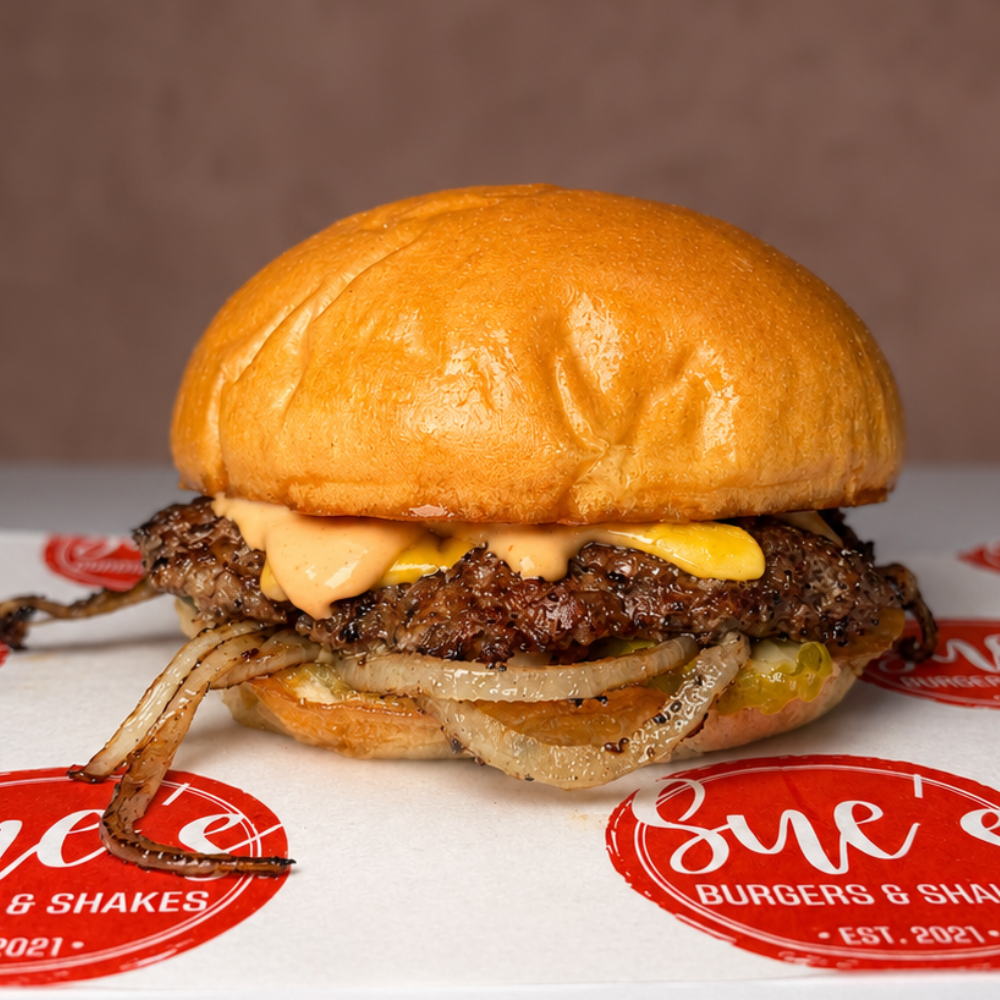
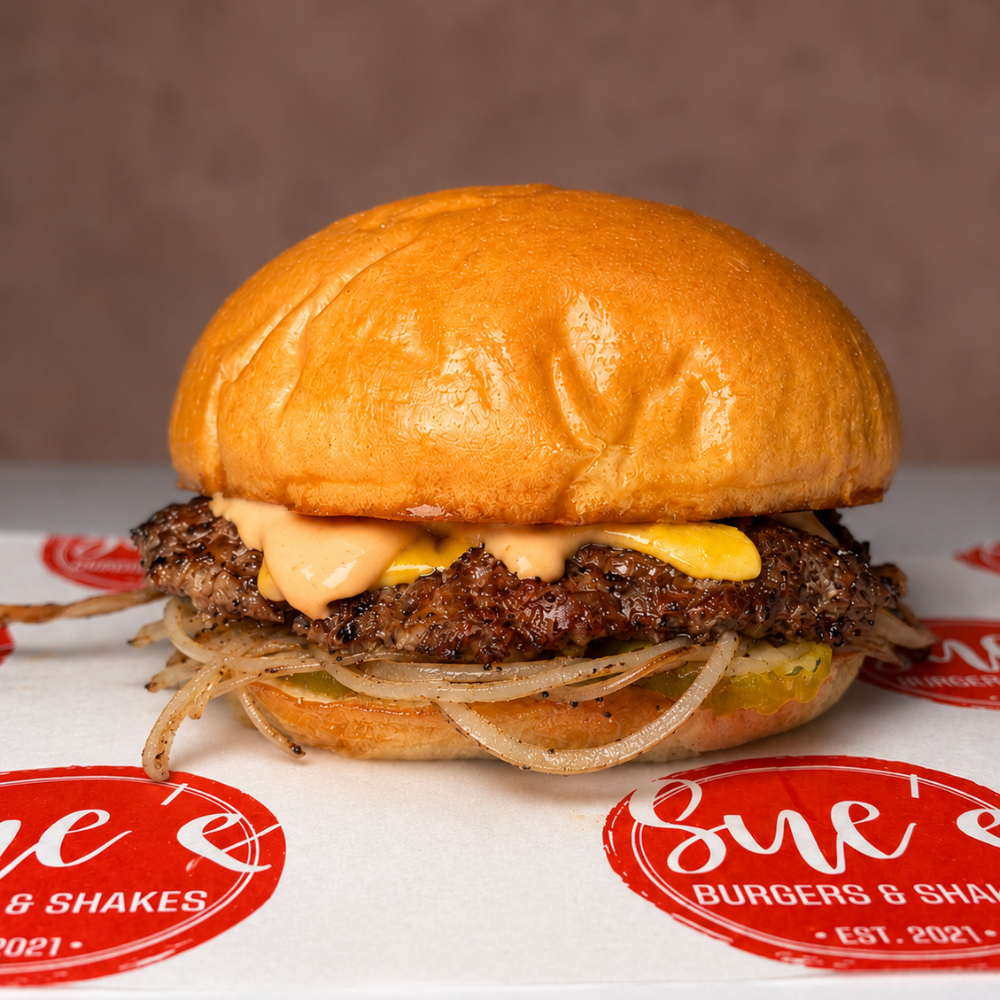
Add dirty soda menu photos and update Popping Punch description.
Wire new drink images for dirty sodas, refresh vego, Oklahoma, and kids cheeseburger photos, and note mango popping pearls on Popping Punch.

diff --git a/src/config/menuImageAliases.ts b/src/config/menuImageAliases.ts
@@ -16,4 +16,12 @@ export const menuImageAliases: Record<string, string> = {
   coke: "coke-can.png",
   "sues-hot-honey-box": "sues-hot-honey-box-daves-box.png",
   "dulce-de-leche": "dulce-de-leche-shake.png",
+  "pink-flamingo": "pink-flamingo-dirty-soda.png",
+  "raspberry-cream-cola": "raspberr-cream-cola.png",
+  "popping-punch": "popping-punch-dirty-soda.png",
+  "raspberry-coconut": "raspberry-coconut-dirty-soda.png",
+  "peach-spritz": "peach-spritz-dirty-soda.png",
+  "caramel-cola": "caramel-cola-dirty-soda.png",
+  "mango-lychee-splash": "mango-lychee-splash-dirty-soda.png",
+  "tropical-sunset": "tropical-sunset-dirty-soda.png",
 };

diff --git a/src/data/fullMenu.ts b/src/data/fullMenu.ts
@@ -299,7 +299,7 @@ const baseMenuSections: MenuCategorySection[] = [
         id: "popping-punch",
         name: "Popping Punch",
         price: 9.5,
-        description: "FANTA · MANGO · PEACH",
+        description: "FANTA · MANGO · PEACH · MANGO POPPING PEARLS",
         orderLink: order,
       },
       {